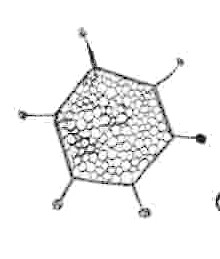
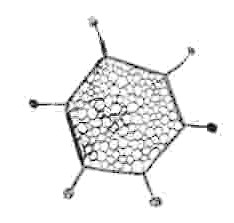
complete animation

Changed region(s): [[0.0818, 0.0538, 0.9545, 0.9417], [0.7636, 0.1883, 0.8455, 0.296], [0.9545, 0.7265, 1.0, 0.8341]]

diff --git a/research/index.html b/research/index.html
@@ -34,8 +34,10 @@
       .research-text-col { padding-bottom: 1rem; }
     }
 
-    /* Bacteria swim behind all page content (z-index:1) but above body background */
-    .page-outer { position: relative; z-index: 2; }
+    /* Layering: hero(1) < bacteria(2) < page content(3) < nav/footer(150+) */
+    .hero-composer { z-index: 1; }
+    .page-header   { position: relative; z-index: 3; }
+    .page-content  { position: relative; z-index: 3; }
 
     /* ── Composed hero ── */
     .hero-composer {
@@ -125,6 +127,33 @@
       <!-- bacteria_12 (125×150) small oval -->
       <img class="bact-sprite" src="/images/bacteria/bacteria_12.jpg" style="left:53%;top:12%;width:3.5%">
       <img class="bact-sprite" src="/images/bacteria/bacteria_12.jpg" style="left:44%;top:78%;width:3.5%">
+      <!-- bacteria_13 (323×354) large -->
+      <img class="bact-sprite" src="/images/bacteria/bacteria_13.jpg" style="left:82%;top:5%;width:6.5%">
+      <img class="bact-sprite" src="/images/bacteria/bacteria_13.jpg" style="left:35%;top:38%;width:6.5%">
+      <!-- bacteria_14 (263×263) -->
+      <img class="bact-sprite" src="/images/bacteria/bacteria_14.jpg" style="left:55%;top:30%;width:5.5%">
+      <img class="bact-sprite" src="/images/bacteria/bacteria_14.jpg" style="left:10%;top:25%;width:5.5%">
+      <!-- bacteria_15 (250×235) -->
+      <img class="bact-sprite" src="/images/bacteria/bacteria_15.jpg" style="left:68%;top:50%;width:5%">
+      <img class="bact-sprite" src="/images/bacteria/bacteria_15.jpg" style="left:43%;top:65%;width:5%">
+      <!-- bacteria_16 (204×128) wide -->
+      <img class="bact-sprite" src="/images/bacteria/bacteria_16.jpg" style="left:20%;top:38%;width:5%">
+      <img class="bact-sprite" src="/images/bacteria/bacteria_16.jpg" style="left:76%;top:58%;width:5%">
+      <!-- bacteria_17 (174×205) -->
+      <img class="bact-sprite" src="/images/bacteria/bacteria_17.jpg" style="left:50%;top:40%;width:4.5%">
+      <img class="bact-sprite" src="/images/bacteria/bacteria_17.jpg" style="left:25%;top:68%;width:4.5%">
+      <!-- bacteria_18 (137×136) small -->
+      <img class="bact-sprite" src="/images/bacteria/bacteria_18.jpg" style="left:64%;top:78%;width:4%">
+      <img class="bact-sprite" src="/images/bacteria/bacteria_18.jpg" style="left:86%;top:38%;width:4%">
+      <!-- bacteria_19 (247×267) -->
+      <img class="bact-sprite" src="/images/bacteria/bacteria_19.jpg" style="left:32%;top:8%;width:5.5%">
+      <img class="bact-sprite" src="/images/bacteria/bacteria_19.jpg" style="left:73%;top:72%;width:5.5%">
+      <!-- bacteria_20 (230×213) -->
+      <img class="bact-sprite" src="/images/bacteria/bacteria_20.jpg" style="left:5%;top:15%;width:5.5%">
+      <img class="bact-sprite" src="/images/bacteria/bacteria_20.jpg" style="left:60%;top:75%;width:5.5%">
+      <!-- bacteria_21 (220×226) -->
+      <img class="bact-sprite" src="/images/bacteria/bacteria_21.jpg" style="left:18%;top:78%;width:5%">
+      <img class="bact-sprite" src="/images/bacteria/bacteria_21.jpg" style="left:90%;top:60%;width:5%">
     </div>
     <div class="hero-accent"></div>
   </div>
@@ -271,7 +300,7 @@
 
       var el = document.createElement('img');
       el.src = sprite.src;
-      el.style.cssText = 'position:fixed;pointer-events:none;z-index:1;'
+      el.style.cssText = 'position:fixed;pointer-events:none;z-index:2;'
         + 'width:' + dw + 'px;height:' + dh + 'px;'
         + 'left:' + (cx - dw / 2) + 'px;top:' + (cy - dh / 2) + 'px;'
         + 'mix-blend-mode:multiply;transform-origin:center center;'
@@ -329,6 +358,7 @@
         if (dx * dx + dy * dy < 60 * 60) {
           b.stopped = true;
           b.el.style.position  = 'absolute';
+          b.el.style.zIndex    = '2';
           b.el.style.left      = (b.cx - b.dw / 2 + window.scrollX) + 'px';
           b.el.style.top       = (b.cy - b.dh / 2 + window.scrollY) + 'px';
           b.el.style.transform = 'rotate(' + (b.h * 180 / Math.PI) + 'deg)';
